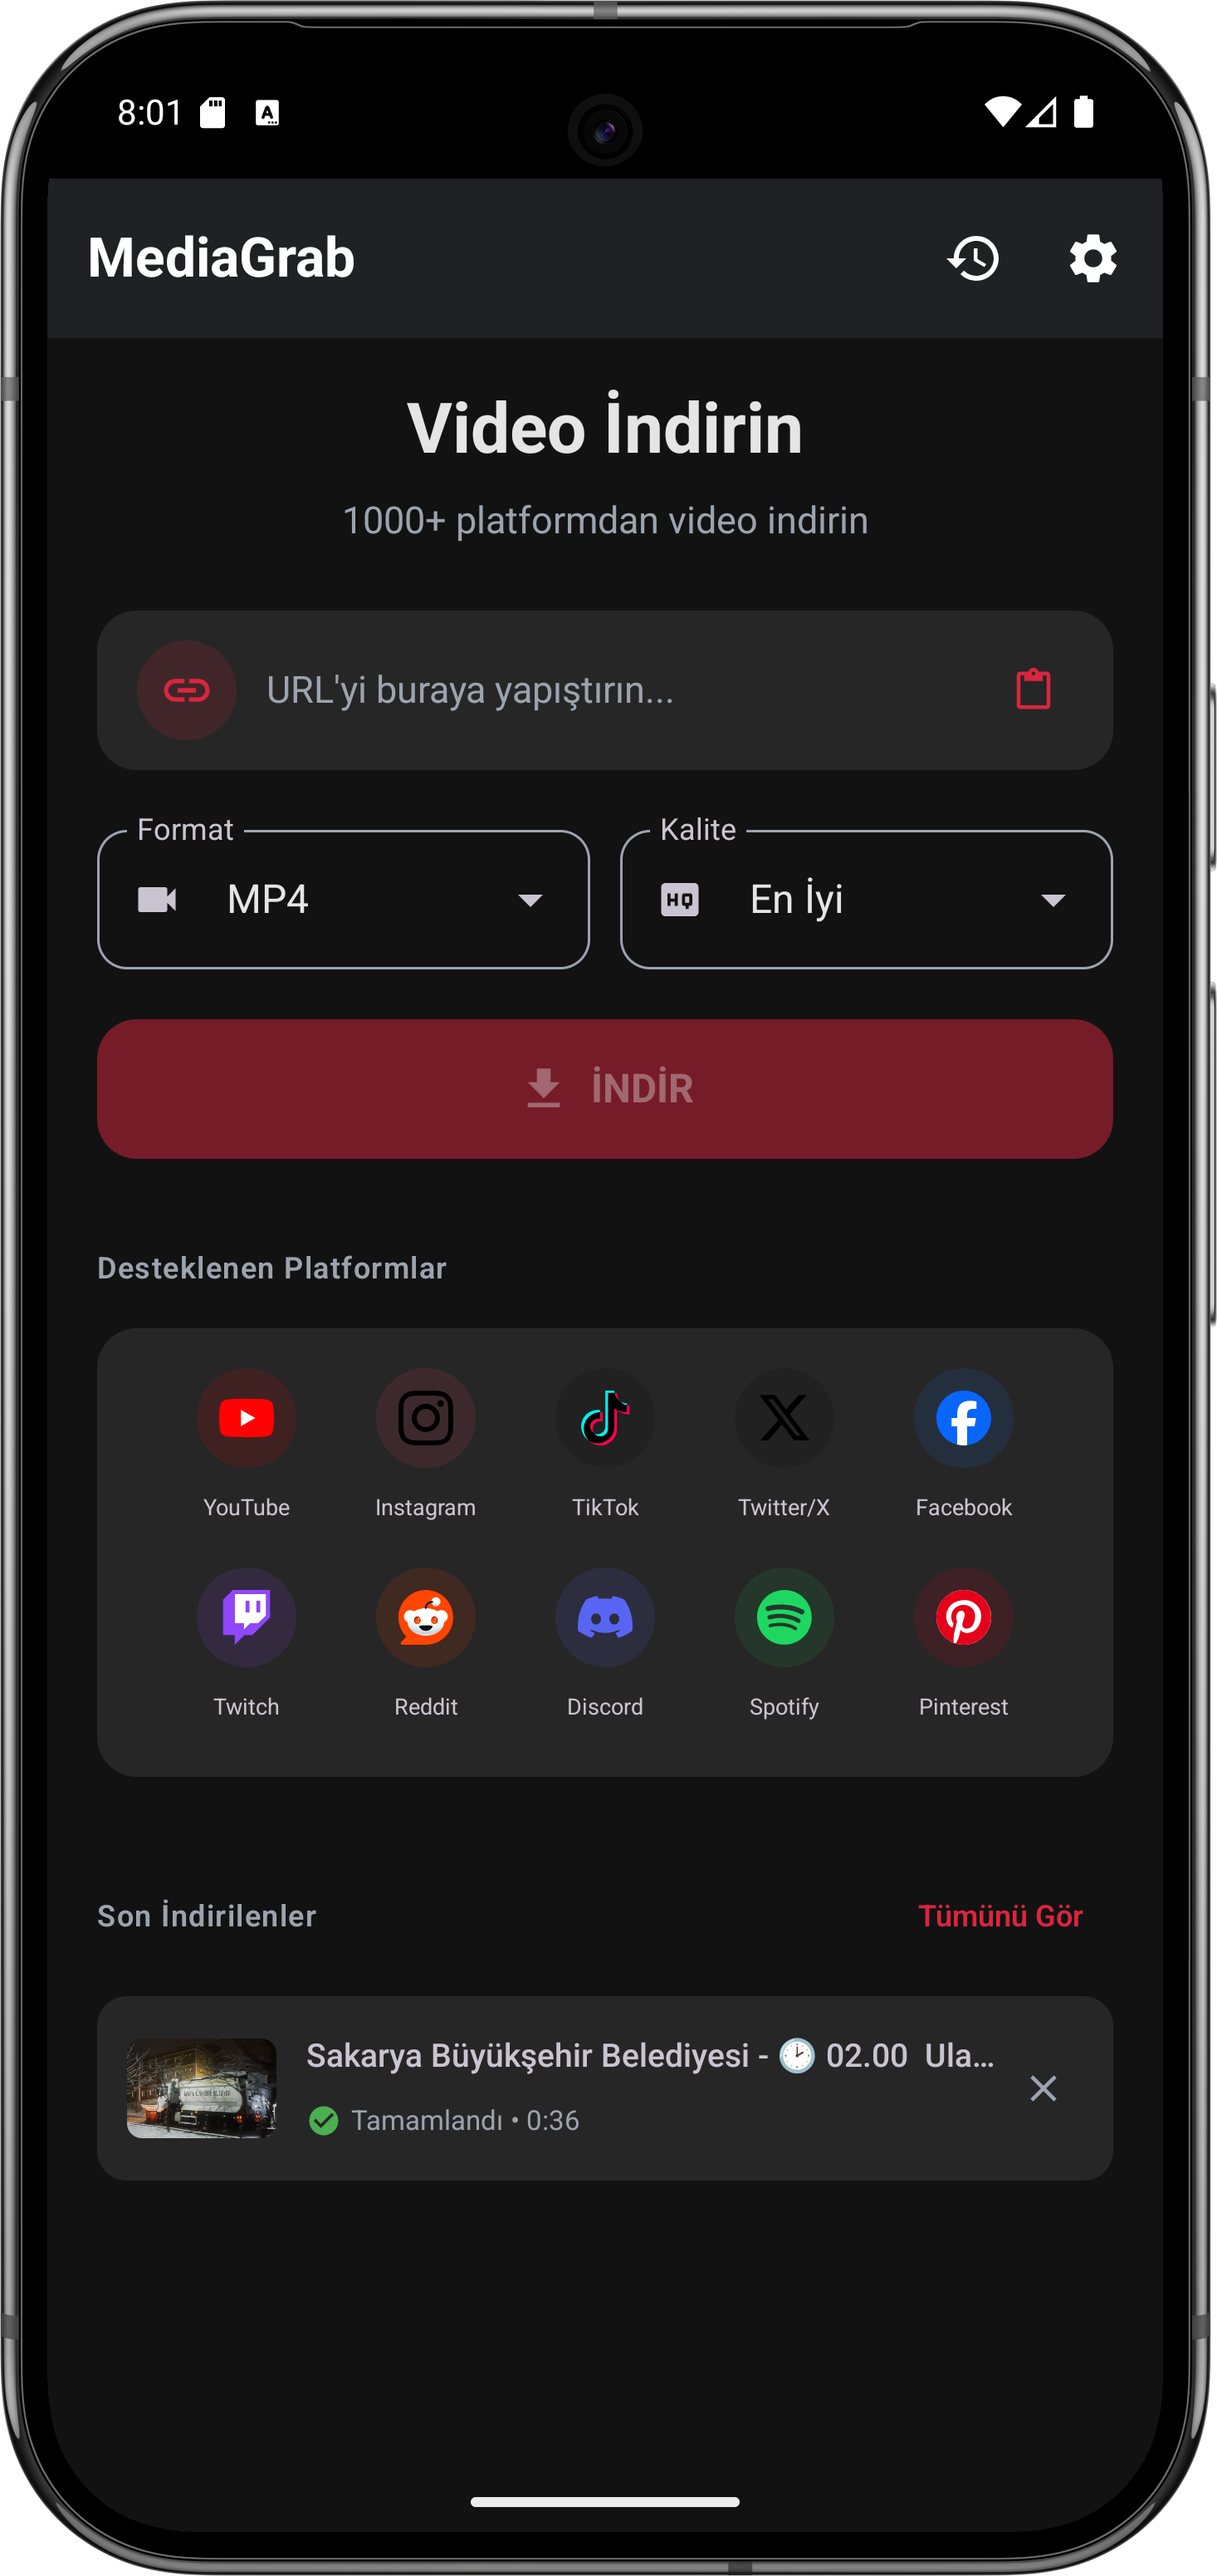
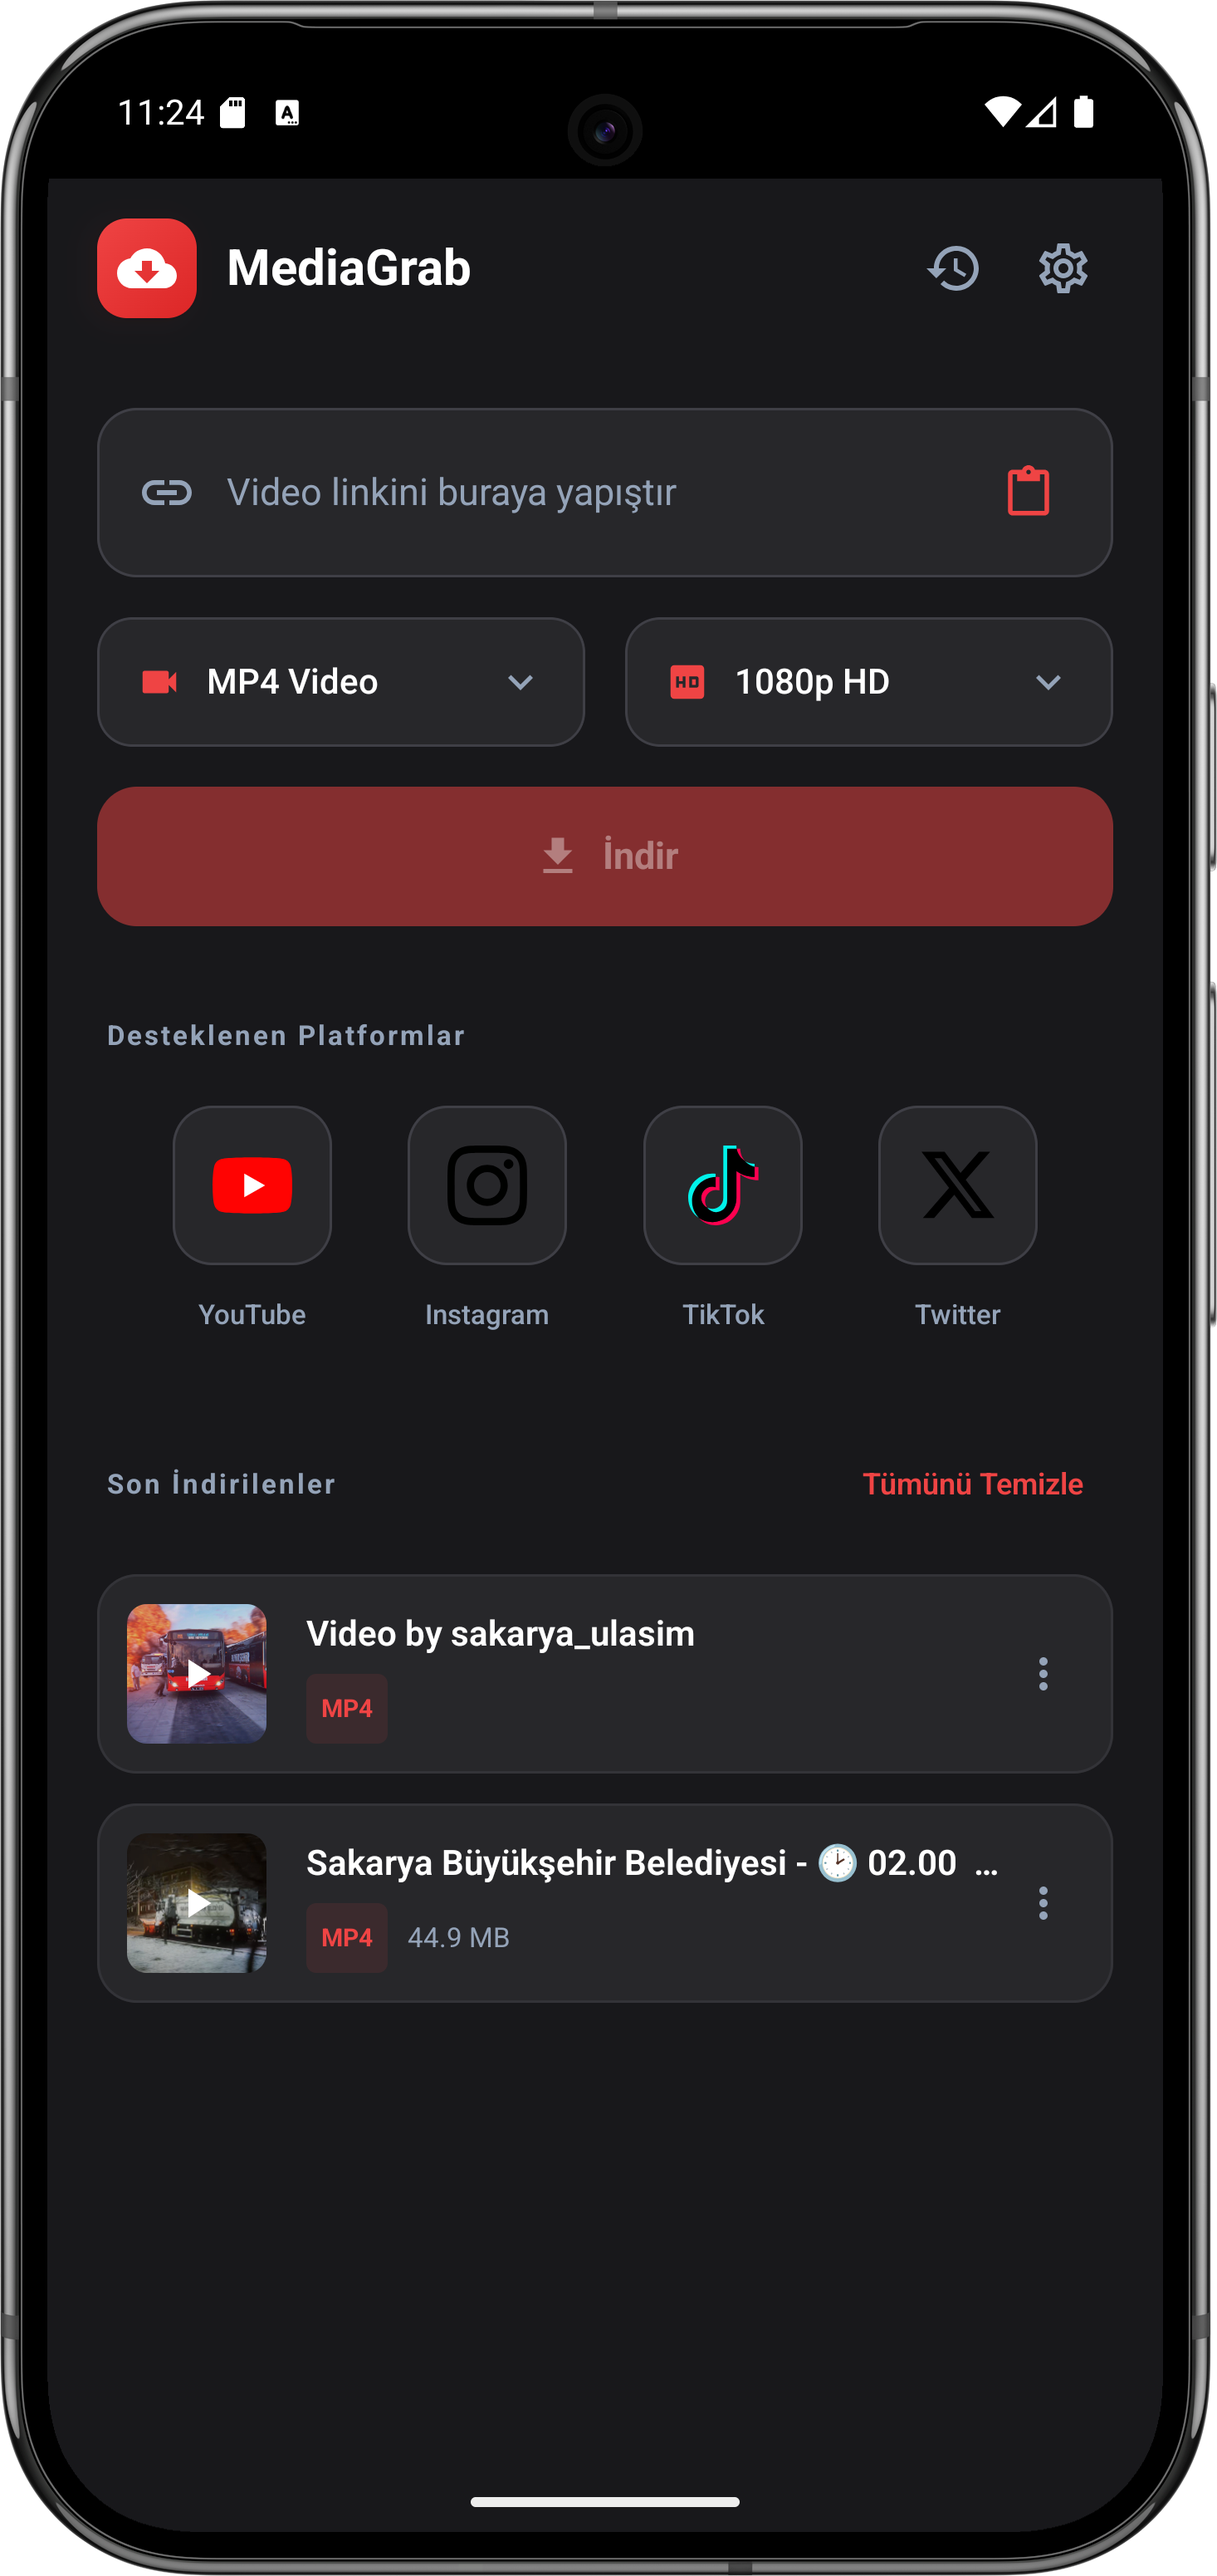
update: HomeScreen ve screenshot güncellendi

diff --git a/app/src/main/java/com/berat/mediagrab/ui/screens/HomeScreen.kt b/app/src/main/java/com/berat/mediagrab/ui/screens/HomeScreen.kt
@@ -2,8 +2,6 @@ package com.berat.mediagrab.ui.screens
 
 import androidx.compose.foundation.Image
 import androidx.compose.foundation.background
-import androidx.compose.ui.res.painterResource
-import com.berat.mediagrab.R
 import androidx.compose.foundation.border
 import androidx.compose.foundation.layout.*
 import androidx.compose.foundation.rememberScrollState
@@ -159,10 +157,11 @@ private fun HomeHeader(
                         ),
                     contentAlignment = Alignment.Center
                 ) {
-                    Image(
-                        painter = painterResource(id = R.drawable.ic_launcher_foreground),
+                    Icon(
+                        imageVector = Icons.Default.CloudDownload,
                         contentDescription = null,
-                        modifier = Modifier.size(32.dp)
+                        tint = Color.White,
+                        modifier = Modifier.size(24.dp)
                     )
                 }
 
